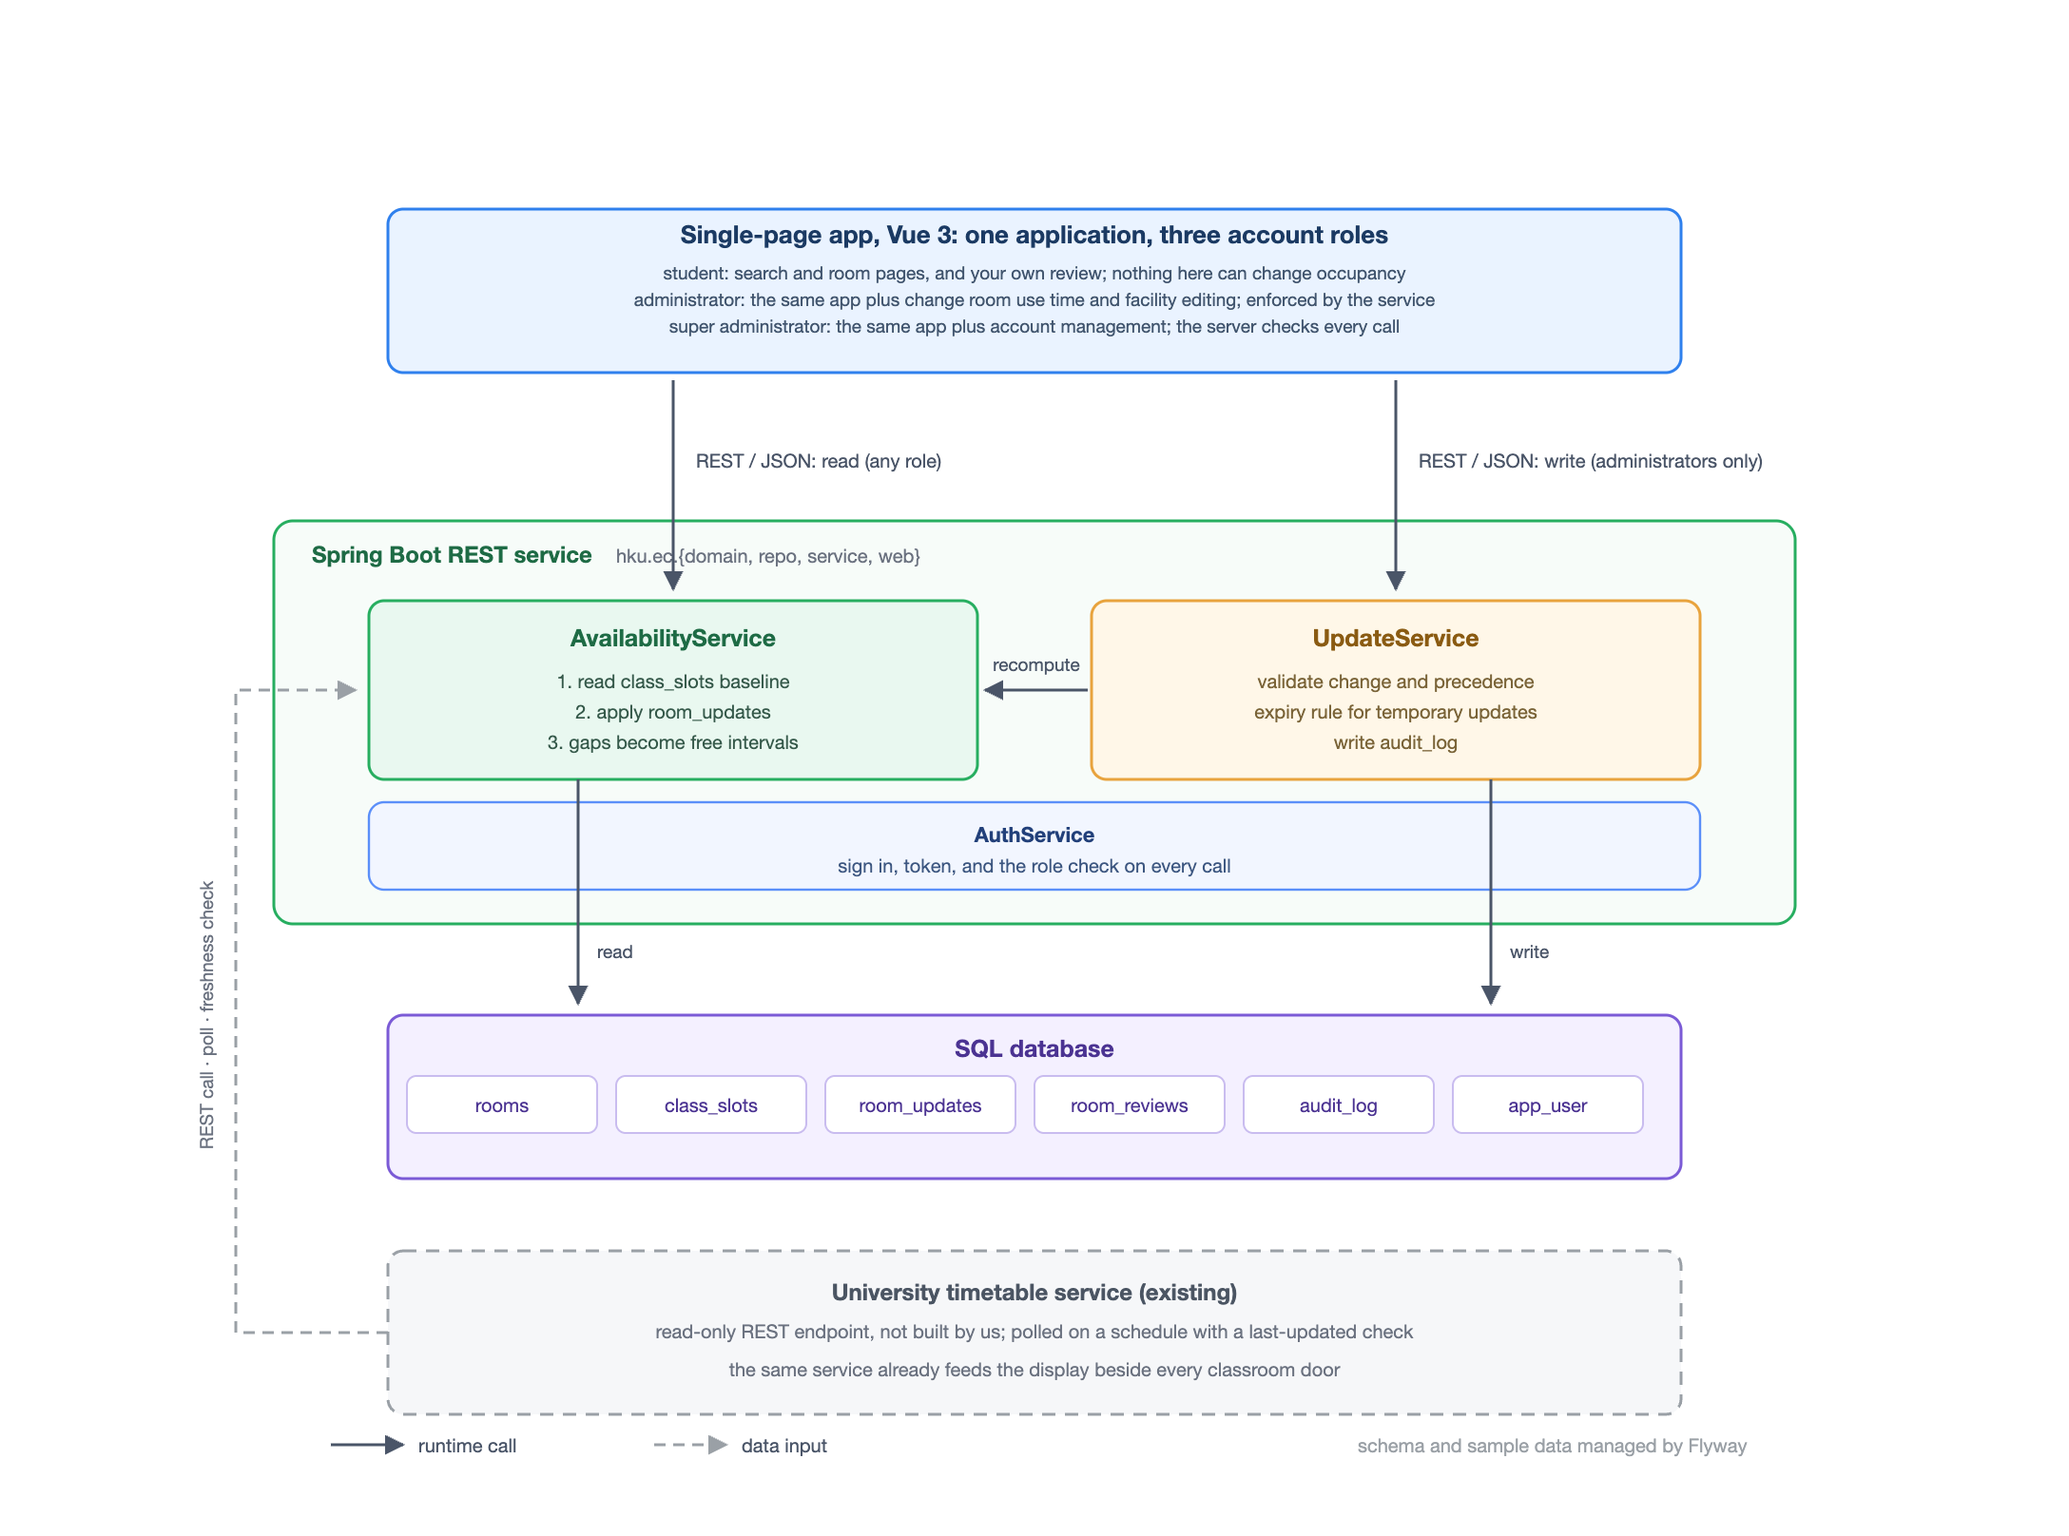
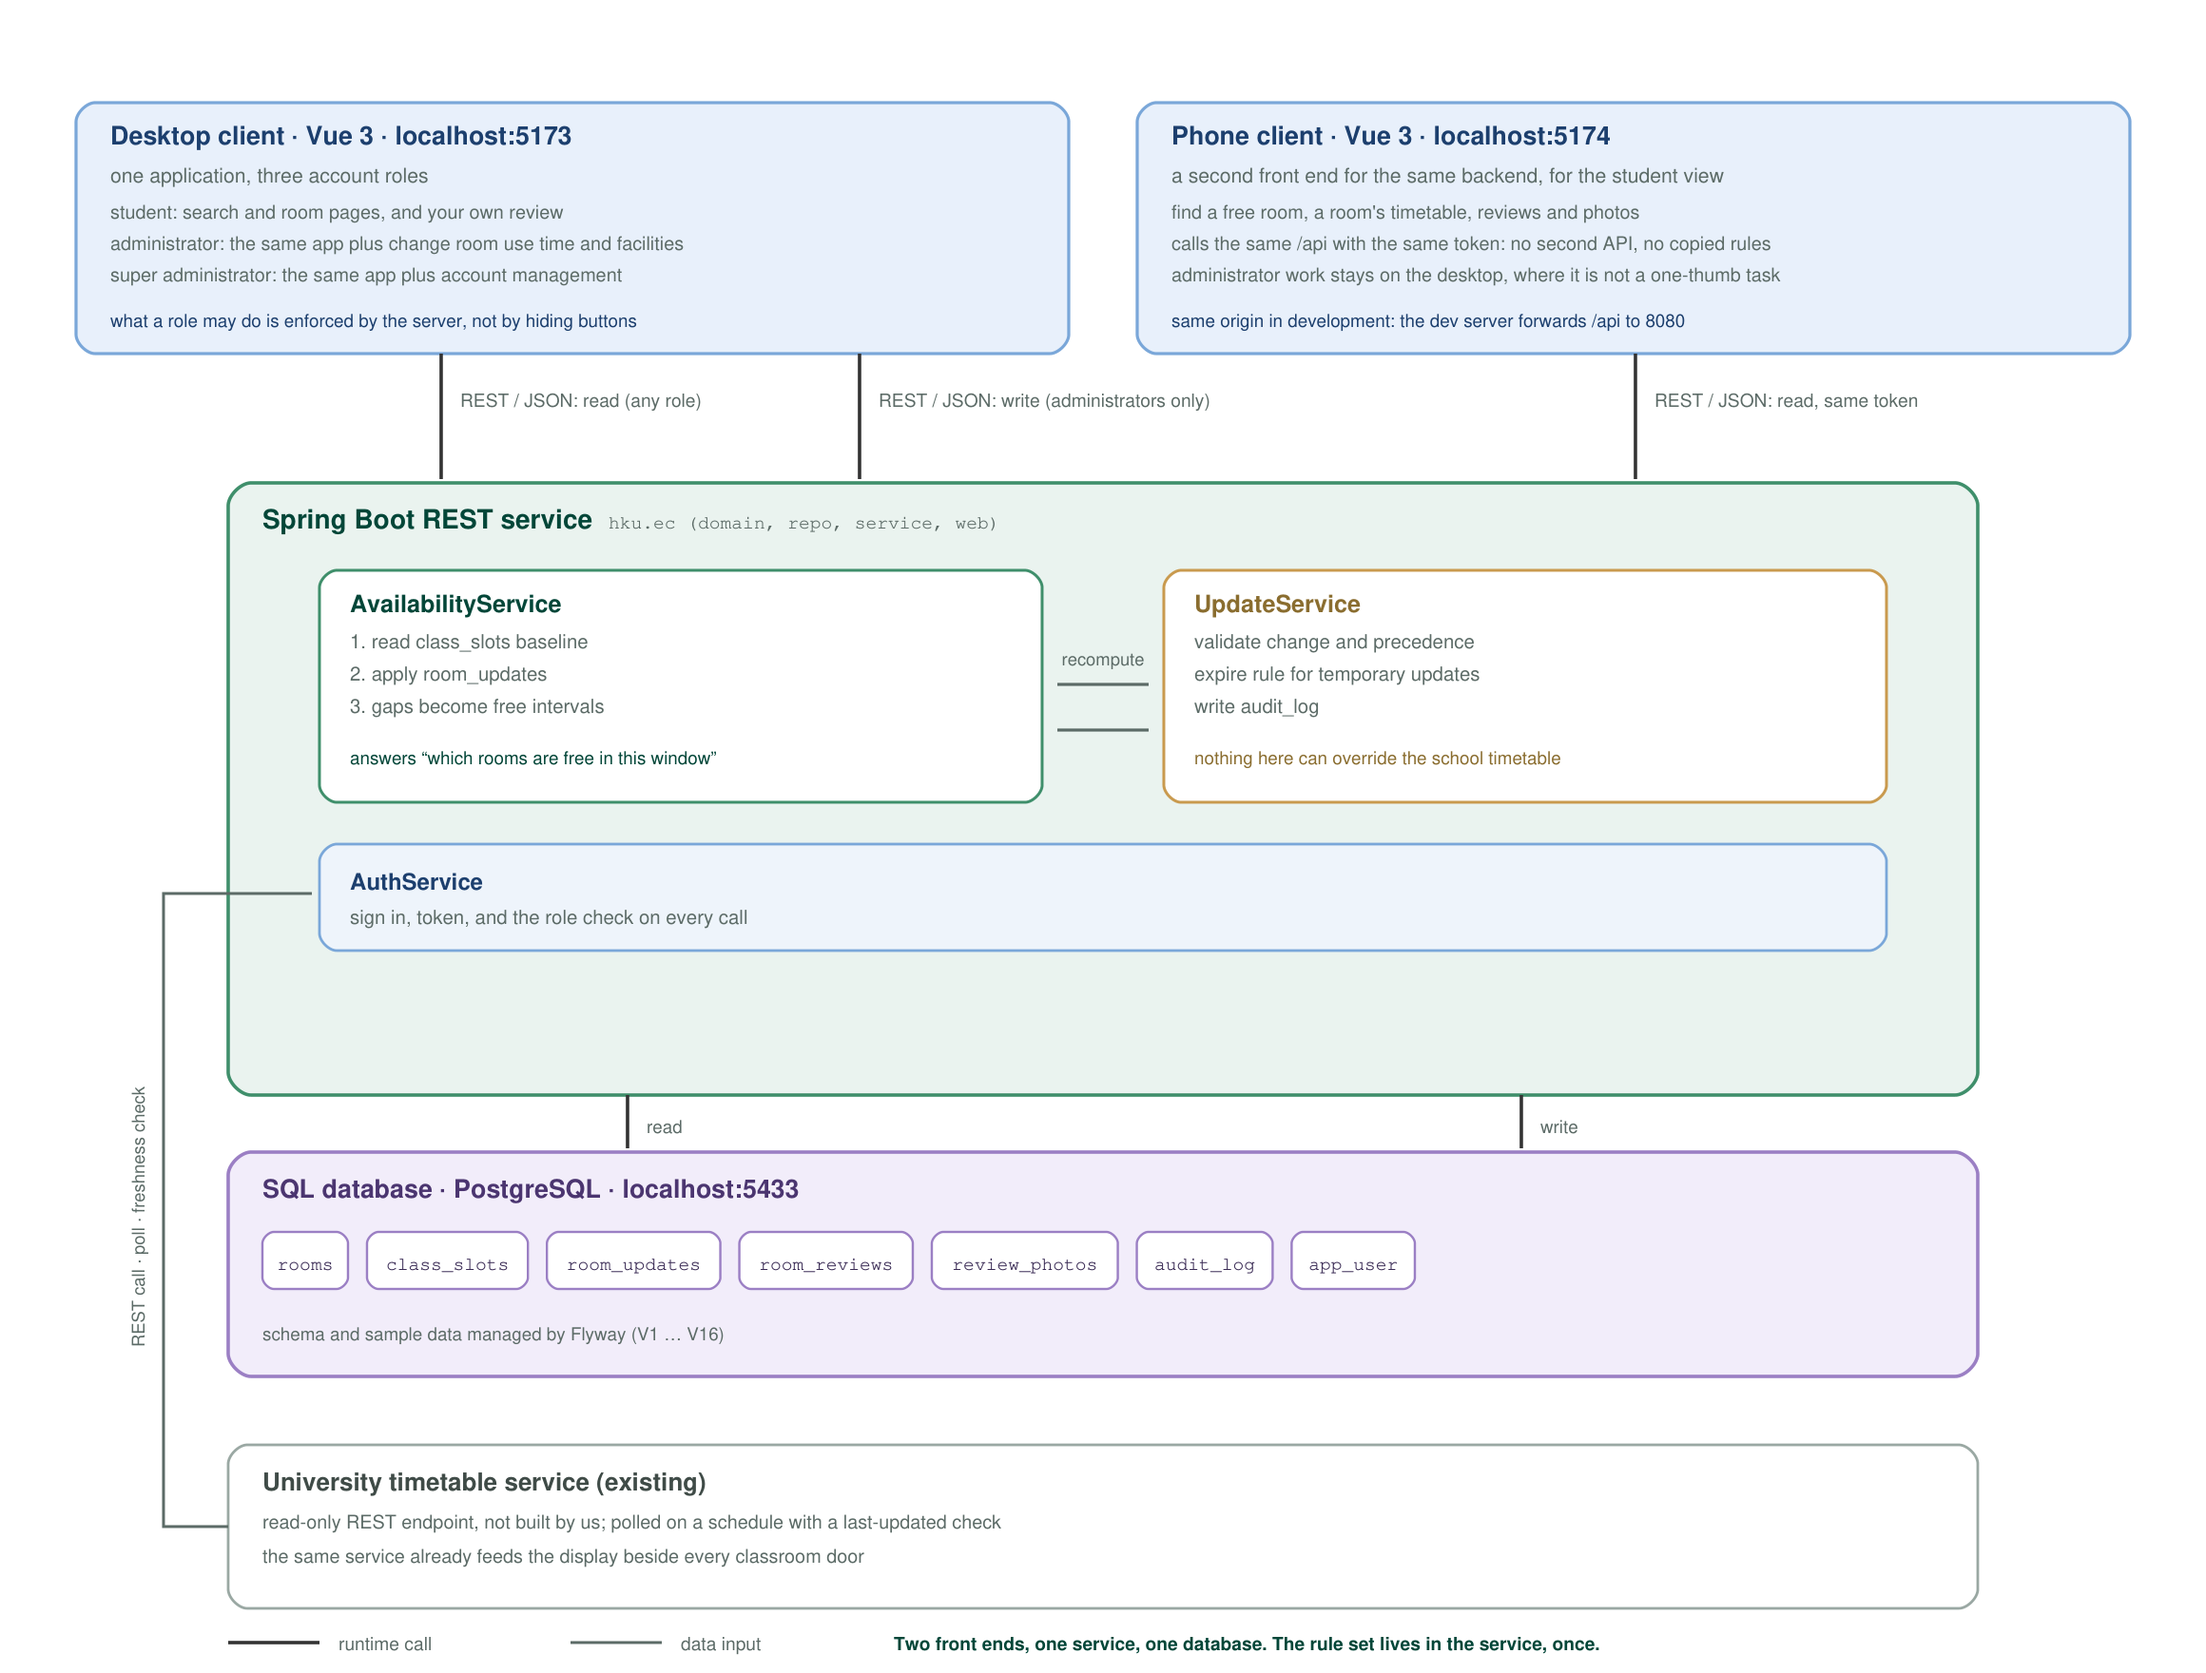
architecture: two front ends, drawn as two front ends
The overall diagram still showed one Vue application, which stopped being true when the phone
client landed. Redrawn with the desktop client (5173, three roles) and the phone client (5174,
student view) side by side over one service, and it now says out loud that the phone app calls the
same API with the same token so there is no second copy of the rules.

Also corrected while in there: review_photos was missing from the row of table chips, and the
figure now has an SVG next to the PNG.

READMEs (en / zh-CN / zh-TW) say two front ends instead of one, in the alt text and in the numbered
explanation.

diff --git a/README.md b/README.md
@@ -119,11 +119,11 @@ Where the busy blocks come from is the part that matters most:
 
 Database schema, with ER diagrams generated from the live database: **[docs/ERD.md](docs/ERD.md)**.
 
-![Architecture: one Vue app with three account roles, one service, one database, and the University's timetable as a read-only input](docs/diagrams/architecture.png)
+![Architecture: two Vue front ends, one Spring Boot service, one database, and the University's timetable as a read-only input](docs/diagrams/architecture.png)
 
 Three parts, and the split between them is the design:
 
-1. **One Vue 3 single-page app, three account roles** (`user` < `admin` < `superadmin`). A student page has no control over occupancy anywhere; an administrator adds *change room use time* and facility editing, and a super administrator adds account management. It is the same application in every case, and what a role may do is decided by the server rather than by hiding buttons.
+1. **Two Vue 3 front ends, one per device.** The desktop client (port 5173) carries all three account roles (`user` < `admin` < `superadmin`): a student page has no control over occupancy anywhere, an administrator adds *change room use time* and facility editing, and a super administrator adds account management. The phone client (port 5174) is the student view: find a free room, a room's timetable, reviews and photos. Both call the same API with the same token, and **what a role may do is decided by the server rather than by hiding buttons** — there is no second copy of the rules to keep in step.
 2. **One Spring Boot service** that computes availability, applies the rules above, and is the only part of the system that writes anything.
 3. **One PostgreSQL database** holding the timetable, the posted changes, the audit log and the accounts.
 

diff --git a/README.zh-TW.md b/README.zh-TW.md
@@ -113,11 +113,11 @@
 
 資料庫結構，含從**跑著的資料庫**生成的 ER 圖：**[docs/ERD.zh-TW.md](docs/ERD.zh-TW.md)**。
 
-![架構：一個 Vue 應用三種帳號角色、一個服務、一個資料庫，學校課表是唯讀輸入](docs/diagrams/architecture.png)
+![架構：兩個 Vue 前端、一個 Spring Boot 服務、一個資料庫，學校課表是唯讀輸入](docs/diagrams/architecture.png)
 
 三個部分，**它們之間的分工就是設計本身**：
 
-1. **一個 Vue 3 單頁應用，三種帳號角色**（`user` < `admin` < `superadmin`）。學生頁面裡不存在任何改占用的控件；管理員多加「更改教室使用時間」與設施編輯，超級管理員再加帳號管理。三種角色都是同一個應用，**能做什麼由伺服器端決定，不是靠藏按鈕**。
+1. **兩個 Vue 3 前端，一台裝置一個。** 桌面端（5173）承載三種帳號角色（`user` < `admin` < `superadmin`）：學生頁面裡不存在任何改占用的控件；管理員多加「更改教室使用時間」與設施編輯；超級管理員再加帳號管理。手機端（5174）是學生視角：找空教室、某間教室的課表與評價、照片。兩個前端用同一個 token 打同一套介面，**能做什麼由伺服器端決定，不是靠藏按鈕**——也就沒有第二份規則要跟著改。
 2. **一個 Spring Boot 服務**：計算空檔、執行上面的規則，是系統裡**唯一會寫資料的部分**。
 3. **一個 PostgreSQL 資料庫**：課表、發布的變更、審計日誌、帳號。
 

diff --git a/README.zh-CN.md b/README.zh-CN.md
@@ -111,11 +111,11 @@
 
 数据库结构，含从**跑着的数据库**生成的 ER 图：**[docs/ERD.zh-CN.md](docs/ERD.zh-CN.md)**。
 
-![架构：一个 Vue 应用三种账户角色、一个服务、一个数据库，学校课表是只读输入](docs/diagrams/architecture.png)
+![架构：两个 Vue 前端、一个 Spring Boot 服务、一个数据库，学校课表是只读输入](docs/diagrams/architecture.png)
 
 三个部分，**它们之间的分工就是设计本身**：
 
-1. **一个 Vue 3 单页应用，三种账户角色**（`user` < `admin` < `superadmin`）。学生页面里不存在任何改占用的控件；管理员多加「更改教室使用时间」与设施编辑，超级管理员再加账号管理。三种角色都是同一个应用，**能做什么由服务端决定，不是靠藏按钮**。
+1. **两个 Vue 3 前端，一台设备一个。** 桌面端（5173）承载三种账户角色（`user` < `admin` < `superadmin`）：学生页面里不存在任何改占用的控件；管理员多加「更改教室使用时间」与设施编辑；超级管理员再加账号管理。手机端（5174）是学生视角：找空教室、某间教室的课表和评价、照片。两个前端用同一个 token 打同一套接口，**能做什么由服务端决定，不是靠藏按钮**——也就没有第二份规则要跟着改。
 2. **一个 Spring Boot 服务**：计算空闲、执行上面的规则，是系统里**唯一会写数据的部分**。
 3. **一个 PostgreSQL 数据库**：课表、发布的变更、审计日志、账号。
 
